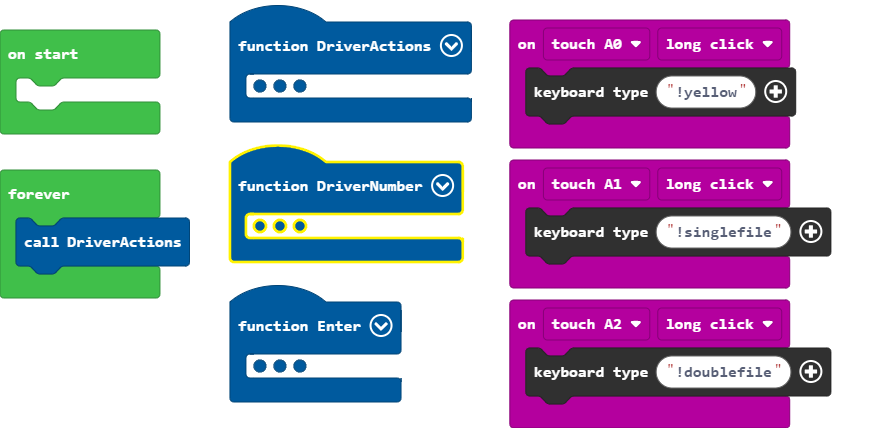
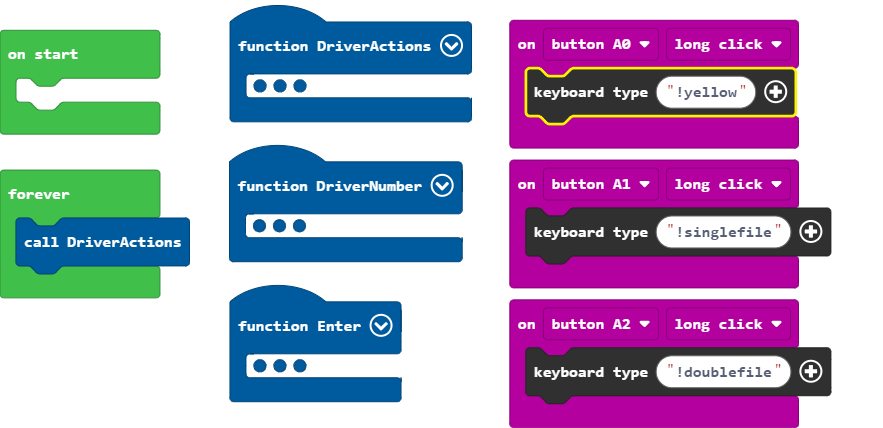
Update main.blocks, main.ts

diff --git a/main.ts b/main.ts
@@ -1,16 +1,16 @@
-input.touchA1.onEvent(ButtonEvent.LongClick, function () {
-    keyboard.type("!singlefile")
-})
-input.touchA2.onEvent(ButtonEvent.LongClick, function () {
-    keyboard.type("!doublefile")
-})
-input.touchA0.onEvent(ButtonEvent.LongClick, function () {
-    keyboard.type("!yellow")
-})
 function Enter () {
     keyboard.type("$")
     keyboard.key("enter", KeyboardKeyEvent.Press)
 }
+input.buttonA1.onEvent(ButtonEvent.LongClick, function () {
+    keyboard.type("!singlefile")
+})
+input.buttonA0.onEvent(ButtonEvent.LongClick, function () {
+    keyboard.type("!yellow")
+})
+input.buttonA2.onEvent(ButtonEvent.LongClick, function () {
+    keyboard.type("!doublefile")
+})
 // Generates Driver Number
 function DriverNumber () {
     if (input.buttonD1.wasPressed() && input.buttonD5.wasPressed()) {
